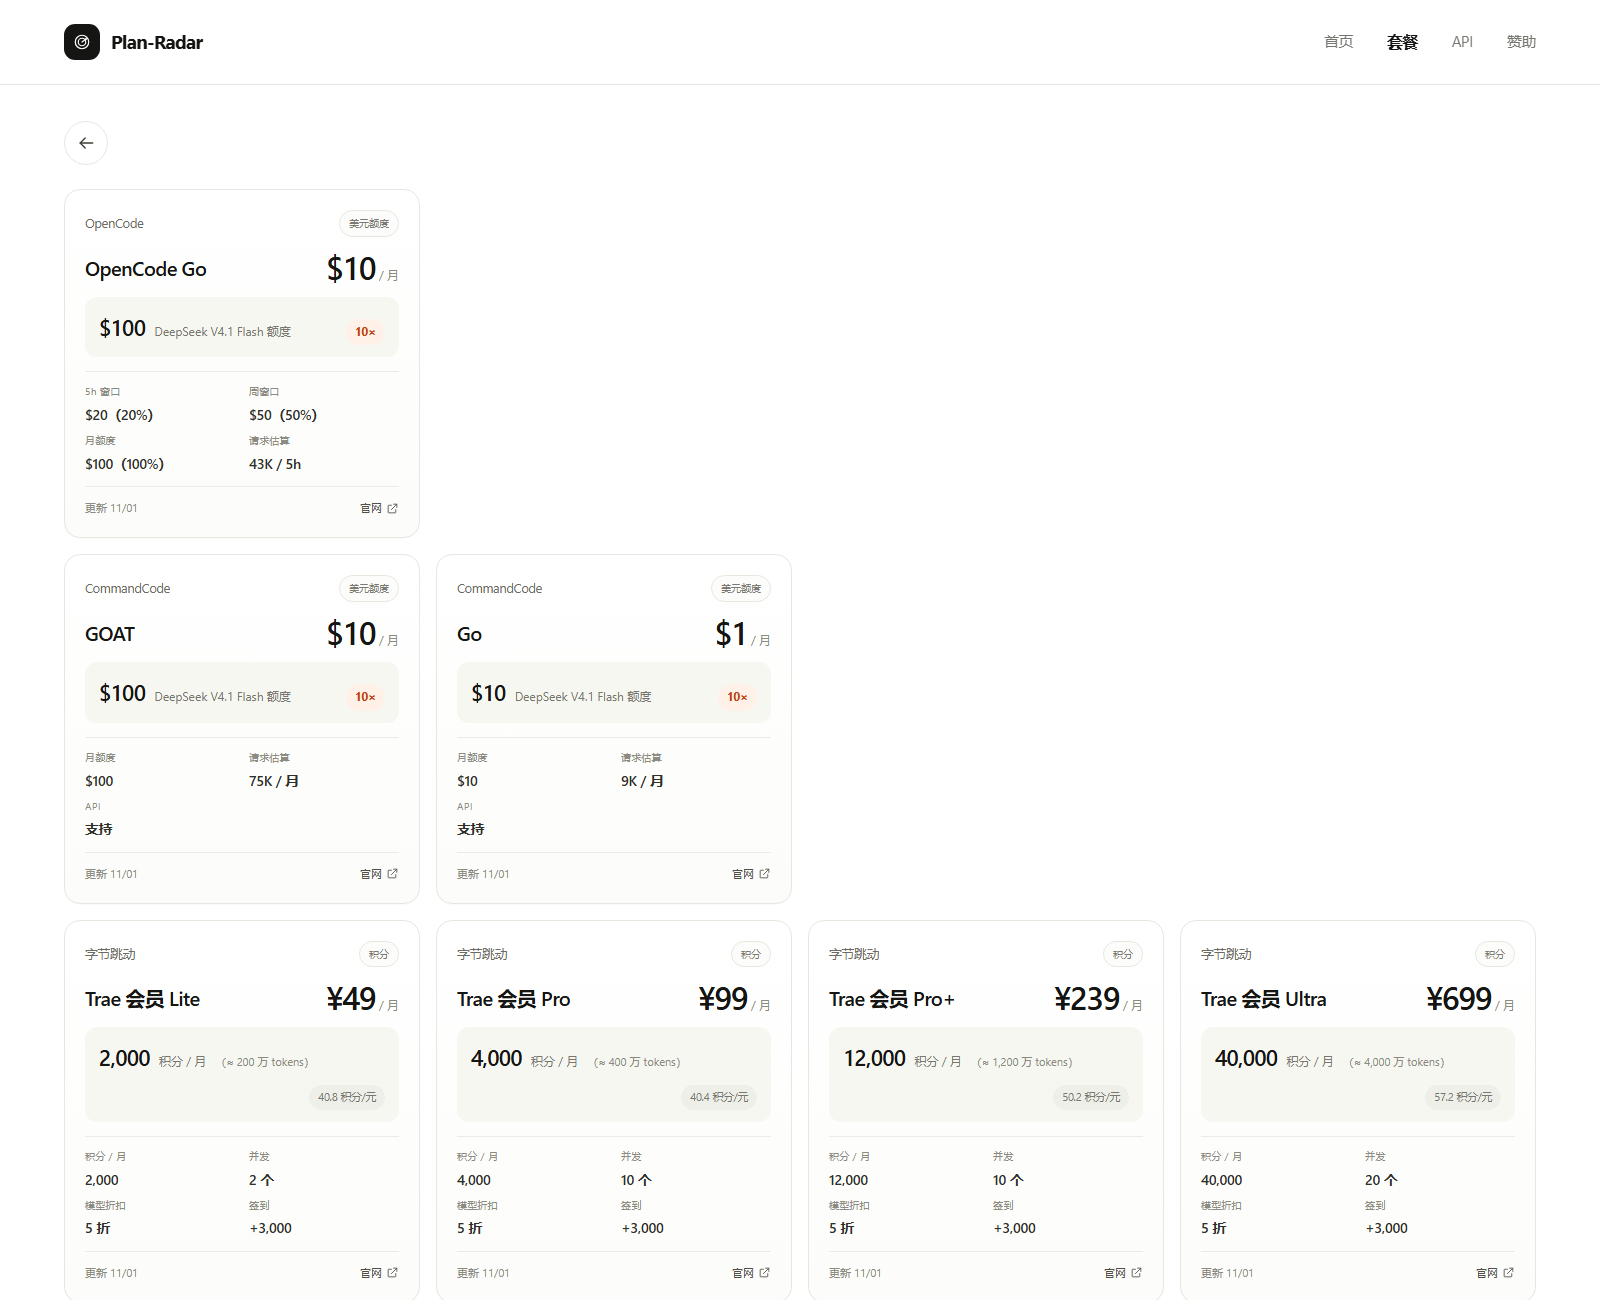
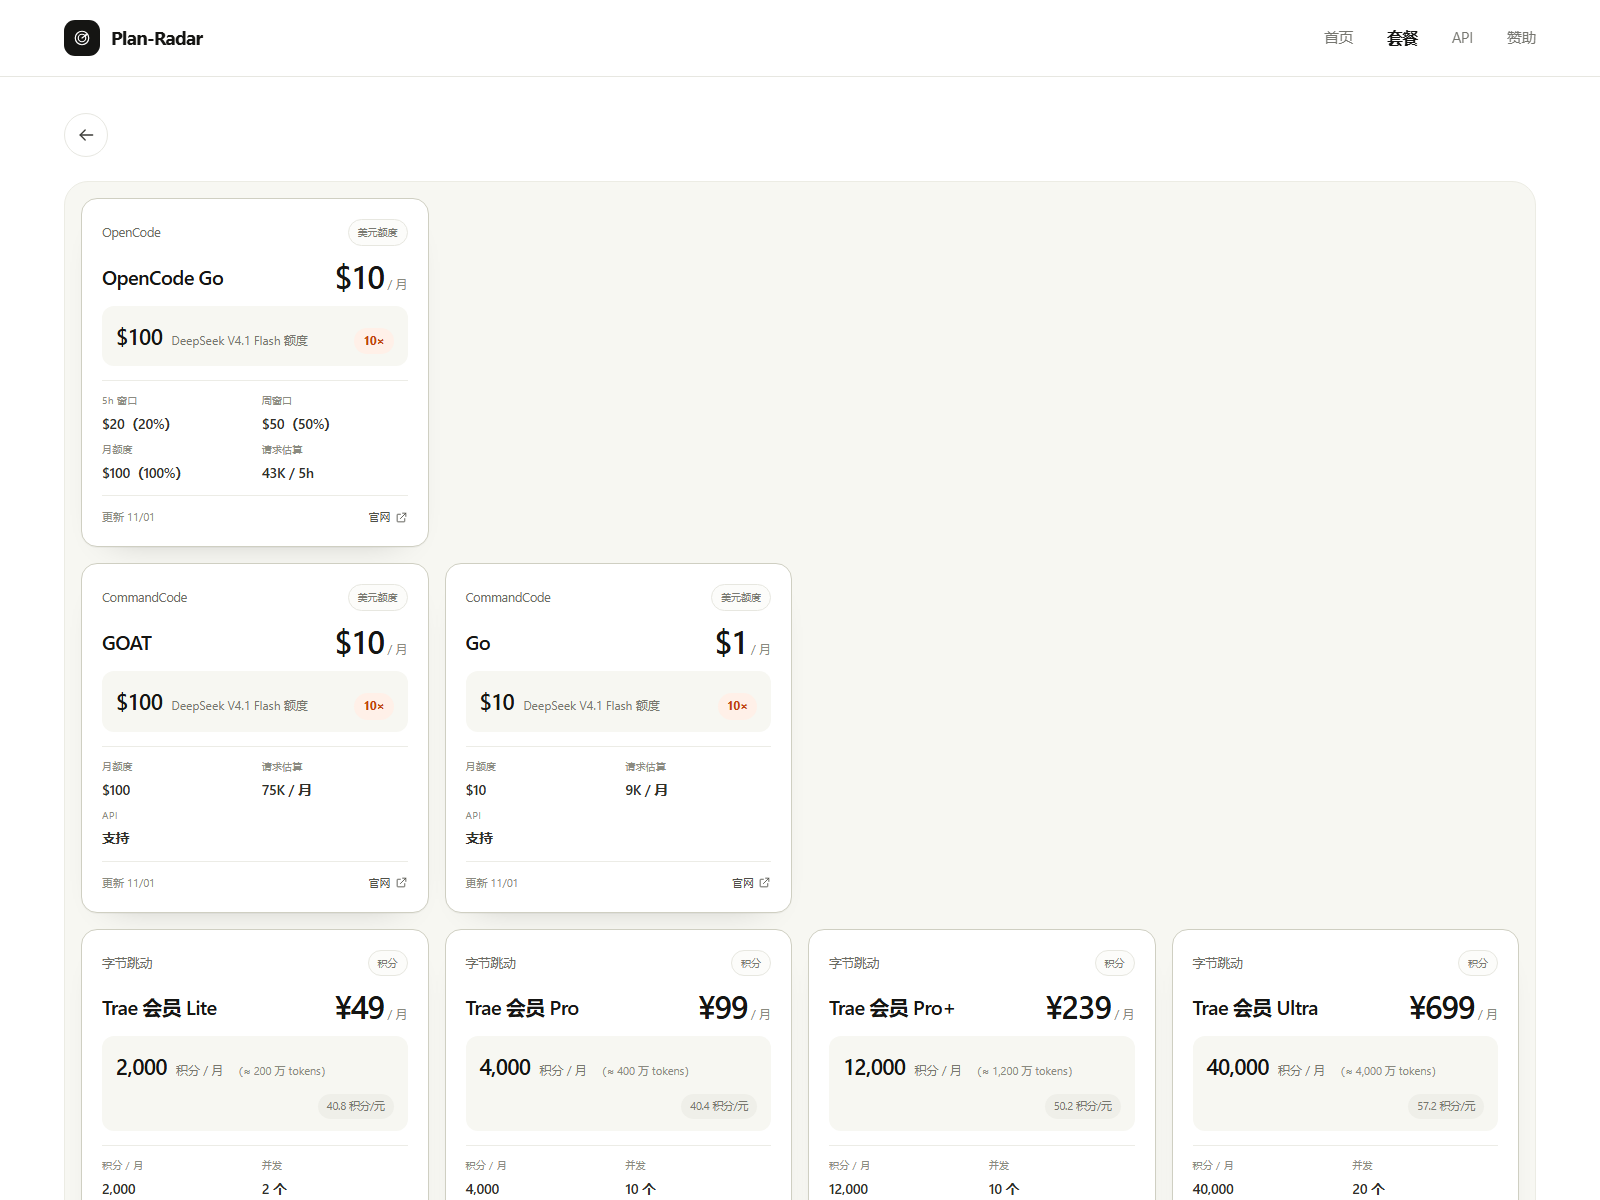
fix: card contrast

diff --git a/app/globals.css b/app/globals.css
@@ -889,7 +889,16 @@ h1, h2, h3, p { margin: 0; }
 @media (min-width: 1900px) {
   .plan-grid { grid-template-columns: repeat(3, minmax(0, 1fr)); }
 }
-.plan-groups { display: flex; flex-direction: column; gap: 16px; margin-top: 24px; }
+.plan-groups {
+  display: flex;
+  flex-direction: column;
+  gap: 16px;
+  margin-top: 24px;
+  padding: 16px;
+  border: 1px solid #ecece4;
+  border-radius: 24px;
+  background: #f7f7f2;
+}
 .plan-group-row { display: grid; grid-template-columns: repeat(4, minmax(0, 1fr)); gap: 16px; }
 .plan-card.compact { padding: 20px; border-radius: 16px; }
 .plan-card.compact .plan-top { margin-bottom: 14px; }
@@ -911,16 +920,16 @@ h1, h2, h3, p { margin: 0; }
   flex-direction: column;
   min-height: 0;
   padding: 30px;
-  border: 1px solid #e7e7e0;
+  border: 1px solid #cfcfc2;
   border-radius: 20px;
-  background: linear-gradient(180deg, #ffffff 0%, #fcfcfa 100%);
-  box-shadow: 0 1px 0 rgba(0, 0, 0, 0.02);
+  background: #fff;
+  box-shadow: 0 1px 0 rgba(0, 0, 0, 0.03), 0 16px 36px -30px rgba(0, 0, 0, 0.32);
   transition: border-color 0.2s ease, transform 0.2s ease, box-shadow 0.2s ease;
 }
 .plan-card:hover {
-  border-color: #d3d3c9;
+  border-color: #b8b8aa;
   transform: translateY(-3px);
-  box-shadow: 0 30px 60px -44px rgba(0, 0, 0, 0.34);
+  box-shadow: 0 26px 48px -32px rgba(0, 0, 0, 0.36);
 }
 .plan-top {
   display: flex;
@@ -1433,6 +1442,7 @@ h1, h2, h3, p { margin: 0; }
   .plan-grid { grid-template-columns: 1fr; }
   .plan-group-row { grid-template-columns: 1fr; }
   .plan-card.compact { padding: 20px; }
+  .plan-groups { padding: 10px; border-radius: 18px; }
   .brief-card { padding: 20px; }
   .updates-head h1 { font-size: 30px; }
   .update-detail { padding: 24px 0; }
